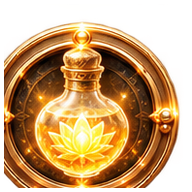
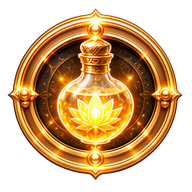
Fix all elixir frames, compact battle belt and enable mana strength luck potions

diff --git a/src/Midgard3D.tsx b/src/Midgard3D.tsx
@@ -11,6 +11,7 @@ import { FBXLoader } from "three/examples/jsm/loaders/FBXLoader.js";
 import { clone as cloneSkinned } from "three/examples/jsm/utils/SkeletonUtils.js";
 import { type HeroDef, type HeroSkin, type HeroWeapon, type GearId, type GatherStock, type GatherKind, MIDGARD_GUARDIANS, WHISPER_GUARD, MIDGARD_GUARDIAN_ORDER, BASE, cachedGlbBuffer, textureSteelOnWeapon, GATHER_SPOTS, WEAPON_ASSET, COMBAT_ENERGY, combatEnergyColor } from './core';
 import { type WhisperCombatStats, type BanditSpec, type WhisperPhase, guardianLootText, POTION_CATALOG, midHash, markMeshes, midMat, organicBlobGeometry, BANDIT_SPECS, MIDGARD_MAP_ICON, MIDGARD_MILL_ICON, RUNE_CATALOG } from './world';
+import { potionBoostKind, boostedPotionDamage, potionDodges, type PotionBoosts, type PotionBoostKind } from "./potionEffects";
 import { InventorySection, SparkDrop } from './inventory';
 
 const RUNE_BUTTON_ART:Record<string,string>={
@@ -19,14 +20,14 @@ const RUNE_BUTTON_ART:Record<string,string>={
   tiwazValor:"rune_tiwaz.png",berkanoHeal:"rune_berkana.png",ehwazMotion:"rune_ehwaz.png",mannazMind:"rune_mannaz.png",laguzFlow:"rune_laguz.png",ingwazReserve:"rune_ingwaz.png",dagazDawn:"rune_dagaz.png",othalaLegacy:"rune_othala.png"
 };
 const POTION_BUTTON_ART:Record<string,string>={
-  lifeElixir:"elixir_life.png",northernMoss:"elixir_heal.png",frostDraught:"elixir_frost.png",hoddmimirElixir:"elixir_defense.png"
+  lifeElixir:"elixir_life.png",northernMoss:"elixir_heal.png",frostDraught:"elixir_frost.png",hoddmimirElixir:"elixir_defense.png",manaElixir:"elixir_mana.png",strengthElixir:"elixir_damage.png",luckElixir:"elixir_luck.png"
 };
 const runeButtonSrc=(id:string)=>`${BASE}img/models/${RUNE_BUTTON_ART[id]||"rune_kenaz.png"}`;
-const potionButtonSrc=(id:string)=>`${BASE}img/models/${POTION_BUTTON_ART[id]||"elixir_life.png"}`;
+const potionButtonSrc=(id:string)=>`${BASE}img/models/${POTION_BUTTON_ART[id]||"elixir_life.png"}?v=complete-frame-2`;
 
 
 
-export function Midgard3D({ h, skin, weapon, gear, gearLevels, shieldAsset, on, onOpenMill, eventDone, start, rememberPosition, northBridgeRepaired, chaosGateCleared, chaosCleared, repairedLocations, repairStock, northBridgeReady, goldChestOpened, whisperResolved, guardianResolved, whisperStats, onWhisperCorrect, onWhisperWin, banditRespawnAt, onBanditDefeated, onBanditReward, onBanditKnockout, potions, runes, equippedRune, runeCounts, runeLevels, fieldHp, frostGuard, onUsePotion, onEquipRune, onFieldHpChange, onFrostGuardHit, gathered, stock, onGather }: { h: HeroDef; skin: HeroSkin; weapon: HeroWeapon; gear:GearId[]; gearLevels:Record<string,number>; shieldAsset:string; on: (id: string, position?:{x:number;z:number}) => void; onOpenMill:()=>void; eventDone: boolean; start:{x:number;z:number}; rememberPosition:(position:{x:number;z:number})=>void; northBridgeRepaired:boolean; chaosGateCleared:boolean; chaosCleared:string[]; repairedLocations:string[]; repairStock:Record<string,number>; northBridgeReady:boolean; goldChestOpened:boolean; whisperResolved:boolean; guardianResolved:string[]; whisperStats:WhisperCombatStats; onWhisperCorrect:()=>void; onWhisperWin:()=>string; banditRespawnAt:Record<string,number>; onBanditDefeated:(id:string)=>void; onBanditReward:(id:string)=>string; onBanditKnockout:()=>void; potions:string[]; runes:string[]; equippedRune:string; runeCounts?:Record<string,number>; runeLevels?:Record<string,number>; fieldHp:number|null; frostGuard:number; onUsePotion:(id:string,currentHp?:number)=>boolean; onEquipRune:(id:string)=>void; onFieldHpChange:(hp:number)=>void; onFrostGuardHit:()=>void; gathered:string[]; stock:GatherStock; onGather:(id:string,kind:GatherKind)=>void }) {
+export function Midgard3D({ h, skin, weapon, gear, gearLevels, shieldAsset, on, onOpenMill, eventDone, start, rememberPosition, northBridgeRepaired, chaosGateCleared, chaosCleared, repairedLocations, repairStock, northBridgeReady, goldChestOpened, whisperResolved, guardianResolved, whisperStats, onWhisperCorrect, onWhisperWin, banditRespawnAt, onBanditDefeated, onBanditReward, onBanditKnockout, potions, runes, equippedRune, runeCounts, runeLevels, fieldHp, frostGuard, potionBoosts, onPotionBoostUsed, onUsePotion, onEquipRune, onFieldHpChange, onFrostGuardHit, gathered, stock, onGather }: { h: HeroDef; skin: HeroSkin; weapon: HeroWeapon; gear:GearId[]; gearLevels:Record<string,number>; shieldAsset:string; on: (id: string, position?:{x:number;z:number}) => void; onOpenMill:()=>void; eventDone: boolean; start:{x:number;z:number}; rememberPosition:(position:{x:number;z:number})=>void; northBridgeRepaired:boolean; chaosGateCleared:boolean; chaosCleared:string[]; repairedLocations:string[]; repairStock:Record<string,number>; northBridgeReady:boolean; goldChestOpened:boolean; whisperResolved:boolean; guardianResolved:string[]; whisperStats:WhisperCombatStats; onWhisperCorrect:()=>void; onWhisperWin:()=>string; banditRespawnAt:Record<string,number>; onBanditDefeated:(id:string)=>void; onBanditReward:(id:string)=>string; onBanditKnockout:()=>void; potions:string[]; runes:string[]; equippedRune:string; runeCounts?:Record<string,number>; runeLevels?:Record<string,number>; fieldHp:number|null; frostGuard:number; potionBoosts:PotionBoosts; onPotionBoostUsed:(kind:PotionBoostKind)=>void; onUsePotion:(id:string,currentHp?:number)=>boolean; onEquipRune:(id:string)=>void; onFieldHpChange:(hp:number)=>void; onFrostGuardHit:()=>void; gathered:string[]; stock:GatherStock; onGather:(id:string,kind:GatherKind)=>void }) {
   const mount = useRef<HTMLDivElement>(null);
   const joy = useRef<HTMLDivElement>(null);
   const knob = useRef<HTMLDivElement>(null);
@@ -100,11 +101,17 @@ export function Midgard3D({ h, skin, weapon, gear, gearLevels, shieldAsset, on, 
   gatheredRef.current=new Set(gathered);
   const onGatherRef=useRef(onGather);
   onGatherRef.current=onGather;
+  const potionBoostsRef=useRef({...potionBoosts});
+  potionBoostsRef.current={...potionBoosts};
+  const consumeBoostRef=useRef<(kind:PotionBoostKind)=>void>(()=>{});
+  consumeBoostRef.current=kind=>{potionBoostsRef.current[kind]=Math.max(0,potionBoostsRef.current[kind]-1);onPotionBoostUsed(kind);};
+  const activateBoost=(id:string)=>{const kind=potionBoostKind(id);if(kind)potionBoostsRef.current[kind]=3;};
   frostGuardRef.current=frostGuard;
   equippedRuneRef.current=equippedRune;
   banditDefenseRef.current=whisperStats.defense;
   banditRespawnAtRef.current=banditRespawnAt;
   banditDamageRef.current=(amount:number,guarding:boolean)=>{
+    if(potionBoostsRef.current.luck>0){const dodge=potionDodges(potionBoostsRef.current.luck,Math.random());consumeBoostRef.current('luck');if(dodge)return;}
     if(!guarding&&frostGuardRef.current>0){amount=Math.max(1,Math.ceil(amount*.5));frostGuardRef.current--;onFrostGuardHit();}
     const next=banditHpRef.current-amount;
     setBanditHit(Date.now());
@@ -113,6 +120,7 @@ export function Midgard3D({ h, skin, weapon, gear, gearLevels, shieldAsset, on, 
   };
   const useMidgardPotion=(id:string)=>{
     if(!onUsePotion(id,banditHpRef.current))return;
+    activateBoost(id);
     if(id==='lifeElixir'||id==='northernMoss'||id==='hoddmimirElixir'){
       const next=id==='northernMoss'
         ? Math.min(whisperStats.maxHp,banditHpRef.current+30)
@@ -211,18 +219,19 @@ export function Midgard3D({ h, skin, weapon, gear, gearLevels, shieldAsset, on, 
       whisperTimers.current.push(window.setTimeout(()=>{guardIdleActionRef.current?.();setWhisperPhaseSafe("fight");},520));
     }
   };
-  const whisperGuardTurn=(shielded:boolean)=>{
+  const whisperGuardTurn=(shielded:boolean,currentHp=whisperHeroHp)=>{
     const spec=currentGuardian();
     whisperTimers.current.push(window.setTimeout(()=>{
       guardAttackAtRef.current=performance.now();guardAttackActionRef.current?.();setWhisperFx({kind:"guard",key:Date.now()});
       whisperTimers.current.push(window.setTimeout(()=>{
         const raw=spec.atk+Math.floor(Math.random()*3);
         let damage=Math.max(1,Math.ceil((raw-whisperStats.defense)*(shielded?(gear.includes('shield')?.3:.6):1)));
-        if(!shielded&&frostGuardRef.current>0){damage=Math.max(1,Math.ceil(damage*.5));frostGuardRef.current--;onFrostGuardHit();}
-        const next=Math.max(0,whisperHeroHp-damage);
+        if(potionBoostsRef.current.luck>0){if(potionDodges(potionBoostsRef.current.luck,Math.random()))damage=0;consumeBoostRef.current('luck');}
+        if(damage>0&&!shielded&&frostGuardRef.current>0){damage=Math.max(1,Math.ceil(damage*.5));frostGuardRef.current--;onFrostGuardHit();}
+        const next=Math.max(0,currentHp-damage);
         setWhisperHeroHp(next);setWhisperShield(false);setWhisperBusy(false);
         if(next<=0){setWhisperLog(spec.name+" оказался сильнее. Испытание можно повторить.");setWhisperPhaseSafe("defeat");}
-        else setWhisperLog(shielded?"Щит принял удар. Получено урона: "+damage+".":spec.name+" отвечает ударом: −"+damage+" здоровья.");
+        else setWhisperLog(damage===0?'Эликсир удачи помог избежать удара.':shielded?"Щит принял удар. Получено урона: "+damage+".":spec.name+" отвечает ударом: −"+damage+" здоровья.");
       },390));
     },spec.tempo));
   };
@@ -230,6 +239,7 @@ export function Midgard3D({ h, skin, weapon, gear, gearLevels, shieldAsset, on, 
     if(whisperBusy||whisperPhaseRef.current!=="fight")return;
     if(!onUsePotion(id,whisperHeroHp))return;
     setLastBattlePotion(id);
+    activateBoost(id);
     let nextHp=whisperHeroHp;
     if(id==='lifeElixir'||id==='hoddmimirElixir')nextHp=whisperStats.maxHp;
     else if(id==='northernMoss')nextHp=Math.min(whisperStats.maxHp,whisperHeroHp+30);
@@ -239,7 +249,7 @@ export function Midgard3D({ h, skin, weapon, gear, gearLevels, shieldAsset, on, 
     setBattlePotionOpen(false);
     setWhisperBusy(true);
     setWhisperLog((item?.name||"Эликсир")+" использован. Это действие занимает ход — страж отвечает.");
-    whisperGuardTurn(false);
+    whisperGuardTurn(false,nextHp);
   };
   const whisperFightAction=(kind:"hit"|"rune"|"shield"|"restore")=>{
     const spec=currentGuardian();
@@ -260,8 +270,10 @@ export function Midgard3D({ h, skin, weapon, gear, gearLevels, shieldAsset, on, 
     }else{
       const healed=Math.min(whisperStats.maxHp,whisperHeroHp+14);
       setWhisperHeroHp(healed);setWhisperLog("Герой переводит дыхание и восстанавливает "+(healed-whisperHeroHp)+" здоровья.");
-      whisperGuardTurn(false);return;
+      whisperGuardTurn(false,healed);return;
     }
+    const boost=kind==='hit'?'attack':'rune';
+    if(potionBoostsRef.current[boost]>0){damage=boostedPotionDamage(damage,potionBoostsRef.current[boost]);consumeBoostRef.current(boost);}
     whisperTimers.current.push(window.setTimeout(()=>{
       if(spec.id==="hoddmimir"&&weapon!=="swordGolden"){
         damage=0;
@@ -4427,7 +4439,9 @@ export function Midgard3D({ h, skin, weapon, gear, gearLevels, shieldAsset, on, 
       attackStartedAt=now;
       const target=bandits.filter(b=>b.alerted&&b.hp>0&&Math.hypot(hero.position.x-b.actor.position.x,hero.position.z-b.actor.position.z)<4.0).sort((a,b)=>Math.hypot(hero.position.x-a.actor.position.x,hero.position.z-a.actor.position.z)-Math.hypot(hero.position.x-b.actor.position.x,hero.position.z-b.actor.position.z))[0];
       if(target&&!banditVictoryRef.current){
-        target.hp=Math.max(0,target.hp-(equippedRuneRef.current==='uruzStrength'?2:1));
+        const damage=boostedPotionDamage(equippedRuneRef.current==='uruzStrength'?2:1,potionBoostsRef.current.attack);
+        if(potionBoostsRef.current.attack>0)consumeBoostRef.current('attack');
+        target.hp=Math.max(0,target.hp-damage);
         target.enemyHitAt=0;
         setBanditOpponent({id:target.spec.id,name:target.spec.name,hp:target.hp,maxHp:target.spec.hp});
         if(target.hp===0){
@@ -5328,8 +5342,8 @@ export function Midgard3D({ h, skin, weapon, gear, gearLevels, shieldAsset, on, 
       <div className="mid3d-map-sub" style={{color:"#c3b7a2"}}>Здоровье: {banditHeroHp}/{whisperStats.maxHp} · Ледяная защита: {frostGuard} уд.</div>
       {Object.values(repairStock).some(n=>n>0)&&<div className="inventory-section"><h3>🔧 Припасы для восстановления</h3><div className="inventory-list">{Object.entries(repairStock).filter(([,n])=>n>0).map(([id,n])=><div key={id} className="inventory-item"><span className="inventory-symbol">📦</span><span className="inventory-detail"><b>{REPAIR_GOODS[id as keyof typeof REPAIR_GOODS]||id} · {n}</b><small>Для ремонта локаций после снятия печатей хаоса</small></span></div>)}</div></div>}
       <div className="inventory-section"><h3>🌿 Материалы</h3><div className="inventory-list"><div className="inventory-item"><span className="inventory-symbol">🪵</span><span className="inventory-detail"><b>Древесина · {stock.wood}</b><small>Плотнику Бьёрну нужно 3</small></span></div><div className="inventory-item"><span className="inventory-symbol">🌱</span><span className="inventory-detail"><b>Ветки · {stock.twigs}</b><small>Плотнику Бьёрну нужно 3</small></span></div><div className="inventory-item"><span className="inventory-symbol">🌿</span><span className="inventory-detail"><b>Травы · {stock.herbs}</b><small>Травнице Сигрид нужно 4</small></span></div><div className="inventory-item"><span className="inventory-symbol">🪵✨</span><span className="inventory-detail"><b>Ясеневая древесина · {stock.ashWood}</b><small>У Поверженного ясеня каждые 15 минут и в наградах стража Рощи Ясеня</small></span></div></div></div>
-      <InventorySection kind="potions" potions={potions} runes={runes} equippedRune={equippedRune} hp={banditHeroHp} maxHp={whisperStats.maxHp} frostGuard={frostGuard} onUsePotion={useMidgardPotion} onEquipRune={onEquipRune}/>
-      <InventorySection kind="runes" potions={potions} runes={runes} equippedRune={equippedRune} lootCounts={runeCounts} runeLevels={runeLevels} hp={banditHeroHp} maxHp={whisperStats.maxHp} frostGuard={frostGuard} onUsePotion={useMidgardPotion} onEquipRune={onEquipRune}/>
+      <InventorySection kind="potions" potions={potions} runes={runes} equippedRune={equippedRune} hp={banditHeroHp} maxHp={whisperStats.maxHp} frostGuard={frostGuard} potionBoosts={potionBoosts} onUsePotion={useMidgardPotion} onEquipRune={onEquipRune}/>
+      <InventorySection kind="runes" potions={potions} runes={runes} equippedRune={equippedRune} lootCounts={runeCounts} runeLevels={runeLevels} hp={banditHeroHp} maxHp={whisperStats.maxHp} frostGuard={frostGuard} potionBoosts={potionBoosts} onUsePotion={useMidgardPotion} onEquipRune={onEquipRune}/>
       <button className="mid3d-map-close" onClick={()=>setInventoryOpen(false)}>Вернуться в игру</button>
     </div></div>}
     {creditsOpen&&<div className="mid3d-map-shade" onPointerDown={e=>e.stopPropagation()}><div className="mid3d-map-panel">
@@ -5389,25 +5403,26 @@ export function Midgard3D({ h, skin, weapon, gear, gearLevels, shieldAsset, on, 
       <div className="whisper-question">{activeGuardian.question.q}</div>
       {activeGuardian.question.a.map((answer,i)=><button key={answer} className={"whisper-answer"+(whisperAnswer!==null?(i===activeGuardian.question.c?" good":i===whisperAnswer?" bad":" off"):"")} onClick={()=>answerWhisperInWorld(i)}>{answer}</button>)}
     </div>}
-    {whisperPhase==="fight"&&<div className="mid3d-ui whisper-combat-hud" onPointerDown={e=>e.stopPropagation()}>
+    {whisperPhase==="fight"&&!battlePotionOpen&&<div className="mid3d-ui whisper-combat-hud" onPointerDown={e=>e.stopPropagation()}>
       <div className="whisper-combat-log" role="status" aria-live="polite">{whisperLog}</div>
       <div className="whisper-combat-energy">
         <span className="whisper-pips" aria-label={`Сила героя: ${whisperStats.power} из 5`} title={`Сила героя ${whisperStats.power}/5`}>{whisperPips(whisperStats.power)}</span>
         <span className="whisper-pips" aria-label={`Сила ${activeGuardian.name}: ${activeGuardian.power} из 5`} title={`Сила ${activeGuardian.name} ${activeGuardian.power}/5`}>{whisperPips(activeGuardian.power)}</span>
       </div>
       <div className="whisper-combat-actions">
-        <button className="whisper-combat-action" disabled={whisperBusy} onClick={()=>whisperFightAction("hit")}><span className="whisper-combat-icon custom-art" aria-hidden="true"><img src={`${BASE}img/models/ui_attack.png`} alt="" draggable={false}/></span><b>Удар оружием</b><small>сила оружия</small></button>
+        <button className="whisper-combat-action" disabled={whisperBusy} onClick={()=>whisperFightAction("hit")}><span className="whisper-combat-icon custom-art" aria-hidden="true"><img src={`${BASE}img/models/ui_attack.png`} alt="" draggable={false}/></span><b>Удар оружием</b><small>{potionBoosts.attack?`+30% · ещё ${potionBoosts.attack}`:"сила оружия"}</small></button>
         <button className="whisper-combat-action shield" disabled={whisperBusy} onClick={()=>whisperFightAction("shield")}><span className="whisper-combat-icon custom-art" aria-hidden="true"><img src={`${BASE}img/models/ui_shield.png`} alt="" draggable={false}/></span><b>Поднять щит</b><small>защита</small></button>
-        <button className="whisper-combat-action rune" disabled={whisperBusy} onClick={()=>whisperFightAction("rune")}><span className="whisper-combat-icon custom-art" aria-hidden="true"><img src={runeButtonSrc(equippedRune)} alt="" draggable={false}/></span><b>Руна {RUNE_CATALOG.find(r=>r.id===equippedRune)?.name||"Кеназ"}</b><small>рунический удар</small></button>
+        <button className="whisper-combat-action rune" disabled={whisperBusy} onClick={()=>whisperFightAction("rune")}><span className="whisper-combat-icon custom-art" aria-hidden="true"><img src={runeButtonSrc(equippedRune)} alt="" draggable={false}/></span><b>Руна {RUNE_CATALOG.find(r=>r.id===equippedRune)?.name||"Кеназ"}</b><small>{potionBoosts.rune?`+30% · ещё ${potionBoosts.rune}`:"рунический удар"}</small></button>
         <button className="whisper-combat-action rest" disabled={whisperBusy||potions.length===0} onClick={()=>setBattlePotionOpen(true)}><span className="whisper-combat-icon custom-art" aria-hidden="true"><img src={potionButtonSrc(lastBattlePotion||potions.find(id=>POTION_BUTTON_ART[id])||"lifeElixir")} alt="" draggable={false}/></span><b>Эликсир</b><small>{potions.length?potions.length+" в запасе":"нет"}</small></button>
       </div>
     </div>}
-    {battlePotionOpen&&whisperPhase==="fight"&&<div className="mid3d-ui whisper-cloud" onPointerDown={e=>e.stopPropagation()}>
-      <h3>🧪 Боевой пояс</h3><p>Выбери эликсир. Открытие пояса не тратит ход, но применение эликсира считается действием — после него страж атакует.</p>
+    {battlePotionOpen&&whisperPhase==="fight"&&<div className="mid3d-ui whisper-cloud battle-potion-panel" onPointerDown={e=>e.stopPropagation()}>
+      <h3>🧪 Боевой пояс</h3><p>Выбор не тратит ход. После применения страж атакует.</p>
       <div className="inventory-list">{POTION_CATALOG.map(item=>{
         const count=potions.filter(id=>id===item.id).length;
-        const unusable=item.id==='frostDraught'?frostGuardRef.current>=2:item.id==='hoddmimirElixir'?whisperHeroHp>=whisperStats.maxHp&&frostGuardRef.current>=2:whisperHeroHp>=whisperStats.maxHp;
-        return <div key={item.id} className={'inventory-item'+(count?'':' empty')}><span className="inventory-symbol">{item.symbol}</span><span className="inventory-detail"><b>{item.name} · {count} шт.</b><small>{item.effect}</small></span><button disabled={!count||unusable} onClick={()=>useWhisperBattlePotion(item.id)}>{unusable&&count?'Не требуется':'Использовать'}</button></div>;
+        const boost=potionBoostKind(item.id);
+        const unusable=boost?potionBoostsRef.current[boost]>=3:item.id==='frostDraught'?frostGuardRef.current>=2:item.id==='hoddmimirElixir'?whisperHeroHp>=whisperStats.maxHp&&frostGuardRef.current>=2:whisperHeroHp>=whisperStats.maxHp;
+        return <div key={item.id} className={'inventory-item'+(count?'':' empty')}><span className="inventory-symbol">{item.symbol}</span><span className="inventory-detail"><b>{item.name} · {count} шт.</b><small>{item.effect}{boost&&potionBoosts[boost]>0?` · осталось ${potionBoosts[boost]}`:""}</small></span><button disabled={!count||unusable} onClick={()=>useWhisperBattlePotion(item.id)}>{unusable&&count?'Не требуется':'Использовать'}</button></div>;
       })}</div>
       <button className="whisper-close" onClick={()=>setBattlePotionOpen(false)}>Вернуться к бою</button>
     </div>}

diff --git a/src/App.tsx b/src/App.tsx
@@ -3,6 +3,7 @@ import { REPAIR_RESIDENTS, REPAIR_GOODS, REPAIR_PROJECTS, type RepairResident, n
 import { CHAOS_GATES, chaosKey, gateForLocation, runeCopies, runeStrength, canCleanseGate, cleanseGate } from './chaosProgression';
 import { rollBanditLoot, applyBanditLoot } from './banditLoot';
 import { CHAOS_GATE_KEY, CHAOS_GATE_COST, CHAOS_GATE_RUNES, cleanseChaosGate } from './chaosGate';
+import { potionBoostKind, boostedPotionDamage, potionDodges, type PotionBoostKind } from "./potionEffects";
 import React, { useCallback, useEffect, useRef, useState } from "react";
 import * as THREE from "three";
 import { GLTFLoader } from "three/examples/jsm/loaders/GLTFLoader.js";
@@ -397,18 +398,21 @@ const [roadT, setRoadT] = useState(0.06);
     if(!item||!save.potions.includes(id)){say('Этого эликсира пока нет в запасе.');return false;}
     const maxHp=(heroDef?.hp||100)+gearHp(),currentHp=Math.min(maxHp,currentHpOverride??save.fieldHp??maxHp);
     if(id==='hoddmimirElixir'&&currentHp>=maxHp&&save.frostGuard>=2){say('Здоровье и защита Ходдмимира уже восстановлены.');return false;}
-    if(id!=='frostDraught'&&id!=='hoddmimirElixir'&&currentHp>=maxHp){say('Здоровье уже восстановлено.');return false;}
+    const boost=potionBoostKind(id);
+    if(boost&&save.potionBoosts[boost]>=3){say('Этот эффект уже действует на три действия.');return false;}
+    if((id==='lifeElixir'||id==='northernMoss')&&currentHp>=maxHp){say('Здоровье уже восстановлено.');return false;}
     if(id==='frostDraught'&&save.frostGuard>=2){say('Ледяная защита уже действует на два удара.');return false;}
     setSave(s=>{
       const index=s.potions.indexOf(id);
       if(index<0)return s;
       const nextPotions=[...s.potions];nextPotions.splice(index,1);
       return {...s,potions:nextPotions,
-        fieldHp:id==='lifeElixir'||id==='hoddmimirElixir'?maxHp:id==='northernMoss'?Math.min(maxHp,(s.fieldHp??maxHp)+30):s.fieldHp,
+        fieldHp:id==='lifeElixir'||id==='hoddmimirElixir'?maxHp:id==='northernMoss'?Math.min(maxHp,currentHp+30):s.fieldHp,
+        potionBoosts:boost?{...s.potionBoosts,[boost]:3}:s.potionBoosts,
         frostGuard:id==='frostDraught'||id==='hoddmimirElixir'?2:s.frostGuard};
     });
     haptic('success');say(
-      id==='frostDraught'
+      boost ? `${item.name}: ${item.effect}.` : id==='frostDraught'
         ? 'Ледяной настой ослабит два следующих удара.'
         : id==='hoddmimirElixir'
           ? 'Эликсир Ходдмимира полностью восстановил здоровье и дал защиту от двух следующих ударов.'
@@ -416,6 +420,7 @@ const [roadT, setRoadT] = useState(0.06);
     );
     return true;
   };
+  const consumePotionBoost=(kind:PotionBoostKind)=>setSave(s=>({...s,potionBoosts:{...s.potionBoosts,[kind]:Math.max(0,s.potionBoosts[kind]-1)}}));
   const equipInventoryRune=(id:string)=>{
     const rune=RUNE_CATALOG.find(r=>r.id===id);
     if(!rune||!save.runes.includes(id))return;
@@ -471,6 +476,8 @@ const [roadT, setRoadT] = useState(0.06);
     }
     if (kind === "shield") { if(hen<1){say("Нет энергии, чтобы удержать щит.");return;} nhen=hen-1;nshield = true; log = "Ты поднимаешь щит — удар ослабнет."; }
     if (kind === "restore") { const restored=2+(equipped('boots')?1:0)+(gearLevel('boots')>=3?1:0);nhen=Math.min(COMBAT_ENERGY,hen+restored);log="Ты переводишь дыхание и восстанавливаешь "+restored+" деления энергии."; }
+    const boost=kind==='hit'?'attack':kind==='rune'?'rune':undefined;
+    if(boost&&save.potionBoosts[boost]>0){dmg=boostedPotionDamage(dmg,save.potionBoosts[boost]);consumePotionBoost(boost);log+=' Эликсир усилил удар до '+dmg+'.';}
     const nm = mhp - dmg;
     if (nm <= 0) {
       setMhp(0); setHen(nhen); setMen(nmen); setOver("win");
@@ -480,10 +487,13 @@ const [roadT, setRoadT] = useState(0.06);
       return;
     }
     let md = m.atk + rnd(3); let mlog = "";
+    const enemyAttacks=nmen>0;
     if(nmen<=0){md=0;nmen=2;mlog=" "+m.name+" вынужден перевести дыхание и восстанавливает энергию.";}else nmen=Math.max(0,nmen-1);
     const forgedDefense=gearDefense();
     md=Math.max(1,md-forgedDefense-activeRuneBonus('defense')-(activeArtifactDef()?.defense||0));
     if (nshield) { md = Math.max(0,Math.ceil(md * (equipped('shield')?.3:.6))-gearLevel('shield')-(equipped('shield')?1:0)); mlog += " Щит принял большую часть удара."; }
+    if(!enemyAttacks)md=0;
+    if(md>0&&save.potionBoosts.luck>0){if(potionDodges(save.potionBoosts.luck,Math.random())){md=0;mlog+=' Эликсир удачи помог уклониться.';}consumePotionBoost('luck');}
     if(!nshield&&md>0&&save.frostGuard>0){md=Math.max(1,Math.ceil(md*.5));setSave(s=>({...s,frostGuard:Math.max(0,s.frostGuard-1)}));mlog+=" Морозный настой ослабил удар.";}
     if (save.powers.includes("iceOath")) { md = Math.ceil(md * 0.65); setSave(s => ({ ...s, powers: s.powers.filter(p => p !== "iceOath") })); mlog += " Ледяной обет сковал удар врага."; }
     if (heroDef!.id === "dwarf") md = Math.ceil(md * 0.75);
@@ -983,6 +993,8 @@ const [roadT, setRoadT] = useState(0.06);
       runeLevels={save.forgeLevels}
       fieldHp={save.fieldHp}
       frostGuard={save.frostGuard}
+      potionBoosts={save.potionBoosts}
+      onPotionBoostUsed={consumePotionBoost}
       onUsePotion={useInventoryPotion}
       onEquipRune={equipInventoryRune}
       onFieldHpChange={hp=>setSave(s=>({...s,fieldHp:hp}))}
@@ -1244,8 +1256,8 @@ const [roadT, setRoadT] = useState(0.06);
               <div className="artifact-slots">{save.artifacts.length?save.artifacts.map(id=>{const item=ARTIFACT_INFO[id];if(!item)return null;return <button key={id} className={'artifact-slot'+(save.equippedArtifact===id?' on':'')} onClick={()=>{setSelectedArtifact(id);haptic();}} title={item.name}>{item.symbol}{save.equippedArtifact===id&&<small>АКТИВЕН</small>}</button>}):<span className="dim">Первый артефакт появится после полного завершения мира.</span>}</div>
               {selectedArtifact&&ARTIFACT_INFO[selectedArtifact]&&(()=>{const item=ARTIFACT_INFO[selectedArtifact],active=save.equippedArtifact===selectedArtifact;return <div className="artifact-detail"><b>{item.symbol} {item.name}</b><small>{item.world}. {item.description}</small><small><b>Эффект:</b> {item.effect}</small><button className={active?'active':''} onClick={()=>{setSave(s=>({...s,equippedArtifact:active?'':selectedArtifact}));haptic('success');say(active?item.name+' снят.':item.name+' применён. '+item.effect);}}>{active?'Снять артефакт':'Применить'}</button></div>})()}
             </div>
-            <div className="hall-section inventory-hall"><InventorySection kind="potions" potions={save.potions} runes={save.runes} equippedRune={save.equippedRune} hp={Math.min((heroDef?.hp??100)+gearHp(),save.fieldHp??(heroDef?.hp??100)+gearHp())} maxHp={(heroDef?.hp??100)+gearHp()} frostGuard={save.frostGuard} onUsePotion={useInventoryPotion} onEquipRune={equipInventoryRune}/></div>
-            <div className="hall-section inventory-hall"><InventorySection kind="runes" potions={save.potions} runes={save.runes} equippedRune={save.equippedRune} lootCounts={save.lootCounts} runeLevels={save.forgeLevels} hp={Math.min((heroDef?.hp??100)+gearHp(),save.fieldHp??(heroDef?.hp??100)+gearHp())} maxHp={(heroDef?.hp??100)+gearHp()} frostGuard={save.frostGuard} onUsePotion={useInventoryPotion} onEquipRune={equipInventoryRune} onFuseRune={fuseInventoryRune}/></div>
+            <div className="hall-section inventory-hall"><InventorySection kind="potions" potions={save.potions} runes={save.runes} equippedRune={save.equippedRune} hp={Math.min((heroDef?.hp??100)+gearHp(),save.fieldHp??(heroDef?.hp??100)+gearHp())} maxHp={(heroDef?.hp??100)+gearHp()} frostGuard={save.frostGuard} potionBoosts={save.potionBoosts} onUsePotion={useInventoryPotion} onEquipRune={equipInventoryRune}/></div>
+            <div className="hall-section inventory-hall"><InventorySection kind="runes" potions={save.potions} runes={save.runes} equippedRune={save.equippedRune} lootCounts={save.lootCounts} runeLevels={save.forgeLevels} hp={Math.min((heroDef?.hp??100)+gearHp(),save.fieldHp??(heroDef?.hp??100)+gearHp())} maxHp={(heroDef?.hp??100)+gearHp()} frostGuard={save.frostGuard} potionBoosts={save.potionBoosts} onUsePotion={useInventoryPotion} onEquipRune={equipInventoryRune} onFuseRune={fuseInventoryRune}/></div>
           </div>
           <button className="craft-entry" onClick={()=>{haptic();go({t:"craft"});}}><b>🔥 Перейти в локацию крафта</b><span>Соединяй оружие, материалы и Капли бессмертия в новые предметы.</span></button>
         </div>

diff --git a/src/core.tsx b/src/core.tsx
@@ -1,3 +1,4 @@
+import { EMPTY_POTION_BOOSTS, normalizePotionBoosts, type PotionBoosts } from "./potionEffects";
 import React, { useCallback, useEffect, useRef, useState } from "react";
 import * as THREE from "three";
 import { GLTFLoader } from "three/examples/jsm/loaders/GLTFLoader.js";
@@ -267,7 +268,7 @@ export const SHIELD_ASSETS=['Shield_Round.glb','Shield_Round_2.glb','Shield_Heat
 export const shieldForgeKey=(asset:string)=>asset===SHIELD_ASSETS[0]?'shield':'shield:'+asset;
 
 
-export type Save = { sparks: number; immortalityDrops:number; millStored:number; done: string[]; gift: string; hero: { id: string; name: string } | null; trials: string[]; artifacts: string[]; equippedArtifact:string; watch: number; streak: number; powers: string[]; heroSkin: HeroSkin; heroWeapon: HeroWeapon; shieldAsset:string; ownedShields:string[]; ownedWeapons: string[]; lootCounts:Record<string,number>; equippedGear: GearId[]; potions: string[]; runes: string[]; equippedRune:string; fieldHp:number|null; frostGuard:number; forgeLevels: Record<string,number>; forgeFreeUsed: boolean; gathered:string[]; gatherRespawnAt:Record<string,number>; stock:GatherStock; locationCooldowns:Record<string,number>; villageOrders:Record<string,number>; repairStock:Record<string,number>; runeSteel:number };
+export type Save = { sparks: number; immortalityDrops:number; millStored:number; done: string[]; gift: string; hero: { id: string; name: string } | null; trials: string[]; artifacts: string[]; equippedArtifact:string; watch: number; streak: number; powers: string[]; heroSkin: HeroSkin; heroWeapon: HeroWeapon; shieldAsset:string; ownedShields:string[]; ownedWeapons: string[]; lootCounts:Record<string,number>; equippedGear: GearId[]; potions: string[]; runes: string[]; equippedRune:string; fieldHp:number|null; frostGuard:number; potionBoosts:PotionBoosts; forgeLevels: Record<string,number>; forgeFreeUsed: boolean; gathered:string[]; gatherRespawnAt:Record<string,number>; stock:GatherStock; locationCooldowns:Record<string,number>; villageOrders:Record<string,number>; repairStock:Record<string,number>; runeSteel:number };
 
 
 export const GATHER_RESPAWN_MS=15*60*1000;
@@ -279,7 +280,7 @@ export function refreshGathering<T extends {gathered:string[];gatherRespawnAt:Re
   return {...state,gathered,gatherRespawnAt};
 }
 
-export const DEF: Save = { sparks: 0, immortalityDrops:25, millStored:0, done: [], gift: "", hero: null, trials: [], artifacts: [], equippedArtifact:"", watch: 0, streak: 0, powers: [], heroSkin: "viking", heroWeapon: "default", shieldAsset:SHIELD_ASSETS[0], ownedShields:[SHIELD_ASSETS[0]], ownedWeapons: ["default"], lootCounts:{default:1,[SHIELD_ASSETS[0]]:1}, equippedGear:[], potions: [], runes: [], equippedRune:'',fieldHp:null,frostGuard:0,forgeLevels: {}, forgeFreeUsed: false,gathered:[],gatherRespawnAt:{},stock:{...EMPTY_GATHER_STOCK},locationCooldowns:{},villageOrders:{},repairStock:{},runeSteel:0 };
+export const DEF: Save = { sparks: 0, immortalityDrops:25, millStored:0, done: [], gift: "", hero: null, trials: [], artifacts: [], equippedArtifact:"", watch: 0, streak: 0, powers: [], heroSkin: "viking", heroWeapon: "default", shieldAsset:SHIELD_ASSETS[0], ownedShields:[SHIELD_ASSETS[0]], ownedWeapons: ["default"], lootCounts:{default:1,[SHIELD_ASSETS[0]]:1}, equippedGear:[], potions: [], runes: [], equippedRune:'',fieldHp:null,frostGuard:0,potionBoosts:{...EMPTY_POTION_BOOSTS},forgeLevels: {}, forgeFreeUsed: false,gathered:[],gatherRespawnAt:{},stock:{...EMPTY_GATHER_STOCK},locationCooldowns:{},villageOrders:{},repairStock:{},runeSteel:0 };
 
 
 export const loadSave = (): Save => {
@@ -338,6 +339,7 @@ export const loadSave = (): Save => {
     }
     if(typeof s.equippedRune!=="string"||!s.runes.includes(s.equippedRune))s.equippedRune=s.runes.includes('uruzStrength')?'uruzStrength':'';
     if(s.fieldHp!==null&&(!Number.isFinite(s.fieldHp)||s.fieldHp<0))s.fieldHp=null;
+    s.potionBoosts=normalizePotionBoosts(s.potionBoosts);
     if(!Number.isFinite(s.frostGuard)||s.frostGuard<0)s.frostGuard=0;
     if (!s.forgeLevels || typeof s.forgeLevels !== "object" || Array.isArray(s.forgeLevels)) s.forgeLevels = {};
     if(!Array.isArray(s.equippedGear))s.equippedGear=GEAR_IDS.filter(id=>Number(s.forgeLevels[id]||0)>0);

diff --git a/src/inventory.tsx b/src/inventory.tsx
@@ -1,3 +1,4 @@
+import { potionBoostKind, type PotionBoosts } from "./potionEffects";
 import React, { useCallback, useEffect, useRef, useState } from "react";
 import * as THREE from "three";
 import { GLTFLoader } from "three/examples/jsm/loaders/GLTFLoader.js";
@@ -11,12 +12,13 @@ import { POTION_CATALOG, RUNE_CATALOG } from './world';
 export function SparkDrop(){return <img className="spark-drop" src={`${BASE}img/BackgroundEraser_20260930_010245371.png`} alt="" aria-label="Капля бессмертия"/>;}
 
 
-export function InventorySection({kind,potions,runes,equippedRune,lootCounts,runeLevels,hp,maxHp,frostGuard,onUsePotion,onEquipRune,onFuseRune}:{kind:'potions'|'runes';potions:string[];runes:string[];equippedRune:string;lootCounts?:Record<string,number>;runeLevels?:Record<string,number>;hp:number;maxHp:number;frostGuard:number;onUsePotion:(id:string)=>void;onEquipRune:(id:string)=>void;onFuseRune?:(id:string)=>void}){
+export function InventorySection({kind,potions,runes,equippedRune,lootCounts,runeLevels,hp,maxHp,frostGuard,potionBoosts,onUsePotion,onEquipRune,onFuseRune}:{kind:'potions'|'runes';potions:string[];runes:string[];equippedRune:string;lootCounts?:Record<string,number>;runeLevels?:Record<string,number>;hp:number;maxHp:number;frostGuard:number;potionBoosts?:PotionBoosts;onUsePotion:(id:string)=>void;onEquipRune:(id:string)=>void;onFuseRune?:(id:string)=>void}){
   const roman=(level:number)=>level>=3?'III':level===2?'II':'I';
   return <section className="inventory-section"><h3>{kind==='potions'?'🧪 Эликсиры':'ᛉ Руны'}</h3><div className="inventory-list">
     {kind==='potions'?POTION_CATALOG.map(item=>{
       const count=potions.filter(id=>id===item.id).length;
-      const unusable=item.id==='frostDraught'
+      const boost=potionBoostKind(item.id);
+      const unusable=boost?(potionBoosts?.[boost]??0)>=3:item.id==='frostDraught'
         ? frostGuard>=2
         : item.id==='hoddmimirElixir'
           ? hp>=maxHp&&frostGuard>=2

diff --git a/src/styles.tsx b/src/styles.tsx
@@ -302,4 +302,17 @@ button{font:inherit;color:inherit;background:none;border:none;cursor:pointer}
 @keyframes millCollected{0%{opacity:0;transform:translate(-50%,-40%) scale(.8)}25%{opacity:1;transform:translate(-50%,-50%) scale(1.06)}100%{opacity:0;transform:translate(-50%,-72%) scale(1)}}
 @media(max-width:380px){.mill-title{top:7px;width:min(80vw,270px);height:36px;padding:7px 12px}.mill-top-stats{left:8px;right:8px;top:49px;height:48px}.mill-frame-card b{font-size:16px}.mill-stat-icon{width:34px;height:29px}.mill-sluice{bottom:67px;width:min(86vw,300px);height:62px}.mill-rate-pill{bottom:132px}.mill-icon-btn{width:54px;height:45px}.mill-controls{bottom:9px;gap:7px}}
 
+.battle-potion-panel{bottom:12px;width:min(94vw,390px);max-height:calc(100% - 24px);height:min(62dvh,460px);padding:10px;z-index:45;display:flex;flex-direction:column;overflow:hidden;box-sizing:border-box}
+.battle-potion-panel:before{display:none}
+.battle-potion-panel h3{font-size:16px;margin:0 0 5px;flex-shrink:0}
+.battle-potion-panel>p{font-size:11px;line-height:1.3;margin:0 0 7px;flex-shrink:0}
+.battle-potion-panel .inventory-list{flex:1;min-height:0;overflow-y:auto;overscroll-behavior:contain;touch-action:pan-y;gap:5px;padding:0 2px 4px}
+.battle-potion-panel .inventory-item{grid-template-columns:24px minmax(0,1fr) auto;gap:5px;padding:6px;border-radius:9px;text-align:left}
+.battle-potion-panel .inventory-symbol{font-size:20px}
+.battle-potion-panel .inventory-detail{min-width:0}
+.battle-potion-panel .inventory-detail b{font-size:11px;line-height:1.2}
+.battle-potion-panel .inventory-detail small{font-size:10px;line-height:1.25}
+.battle-potion-panel .inventory-item button{font-size:10px;padding:9px 6px;min-height:36px}
+.battle-potion-panel .whisper-close{flex-shrink:0;font-size:12px;margin-top:6px;padding:9px}
 `;
+

diff --git a/src/villageQuests.ts b/src/villageQuests.ts
@@ -11,7 +11,7 @@ const FIRST:Record<VillageResident,Order>={
  craftsman:{title:'Крепления Северного моста',cost:{wood:2,twigs:2},drops:30,legacy:'bridge:fittings'}
 };
 const REPEAT:Record<VillageResident,Order[]>={
- herbalist:[{title:'Пополнить запас лечебных трав',cost:{herbs:4},drops:20,potion:'northernMoss'},{title:'Материалы для сушки трав',cost:{herbs:3,twigs:2},drops:25,potion:'northernMoss'}],
+ herbalist:[{title:'Пополнить запас лечебных трав',cost:{herbs:4},drops:20,potion:'northernMoss'},{title:'Материалы для сушки трав',cost:{herbs:3,twigs:2},drops:25,potion:'northernMoss'},{title:'Травы для рунического настоя',cost:{herbs:4},drops:20,potion:'manaElixir'},{title:'Настой силы для защитников',cost:{herbs:3,twigs:2},drops:25,potion:'strengthElixir'},{title:'Сбор для настоя удачи',cost:{herbs:4},drops:20,potion:'luckElixir'}],
  carpenter:[{title:'Ремонт деревенских домов',cost:{wood:6,twigs:2},drops:35},{title:'Доски для деревенских построек',cost:{wood:4},drops:25},{title:'Починка ограды',cost:{wood:2,twigs:4},drops:30}],
  craftsman:[{title:'Заготовки для щитов',cost:{wood:5,twigs:2},drops:35},{title:'Рукояти для инструментов',cost:{wood:2,twigs:3},drops:25},{title:'Материалы для новых креплений',cost:{wood:3,twigs:2},drops:30}]
 };

diff --git a/src/world.tsx b/src/world.tsx
@@ -731,7 +731,10 @@ export const POTION_CATALOG=[
   {id:'lifeElixir',name:'Эликсир жизни',effect:'Полностью восстанавливает здоровье Вики',symbol:'❤'},
   {id:'northernMoss',name:'Эликсир северного мха',effect:'Восстанавливает 30 здоровья',symbol:'🌿'},
   {id:'frostDraught',name:'Морозный настой',effect:'Два следующих удара без щита слабее вдвое',symbol:'❄'},
-  {id:'hoddmimirElixir',name:'Эликсир Ходдмимира',effect:'Полностью восстанавливает здоровье и даёт защиту от двух следующих ударов',symbol:'✨'}
+  {id:'hoddmimirElixir',name:'Эликсир Ходдмимира',effect:'Полностью восстанавливает здоровье и даёт защиту от двух следующих ударов',symbol:'✨'},
+  {id:'manaElixir',name:'Эликсир маны',effect:'Три следующих рунических удара сильнее на 30%',symbol:'💧'},
+  {id:'strengthElixir',name:'Эликсир силы',effect:'Три следующих удара оружием сильнее на 30%',symbol:'🔥'},
+  {id:'luckElixir',name:'Эликсир удачи',effect:'50% шанс избежать каждой из трёх следующих атак',symbol:'🍀'}
 ] as const;
 
 

diff --git a/src/potionEffects.ts b/src/potionEffects.ts
@@ -1,0 +1,15 @@
+export type PotionBoostKind = 'attack' | 'rune' | 'luck';
+export type PotionBoosts = Record<PotionBoostKind, number>;
+export const EMPTY_POTION_BOOSTS: PotionBoosts = {attack:0,rune:0,luck:0};
+export function potionBoostKind(id:string):PotionBoostKind|undefined {
+  if(id==='strengthElixir')return 'attack';
+  if(id==='manaElixir')return 'rune';
+  if(id==='luckElixir')return 'luck';
+}
+export function normalizePotionBoosts(value:unknown):PotionBoosts {
+  const input=value&&typeof value==='object'?value as Partial<PotionBoosts>:{};
+  const charge=(v:unknown)=>typeof v==='number'&&Number.isFinite(v)?Math.max(0,Math.min(3,Math.floor(v))):0;
+  return {attack:charge(input.attack),rune:charge(input.rune),luck:charge(input.luck)};
+}
+export const boostedPotionDamage=(damage:number,charges:number)=>charges>0?Math.ceil(damage*1.3):damage;
+export const potionDodges=(charges:number,roll:number)=>charges>0&&roll<0.5;
